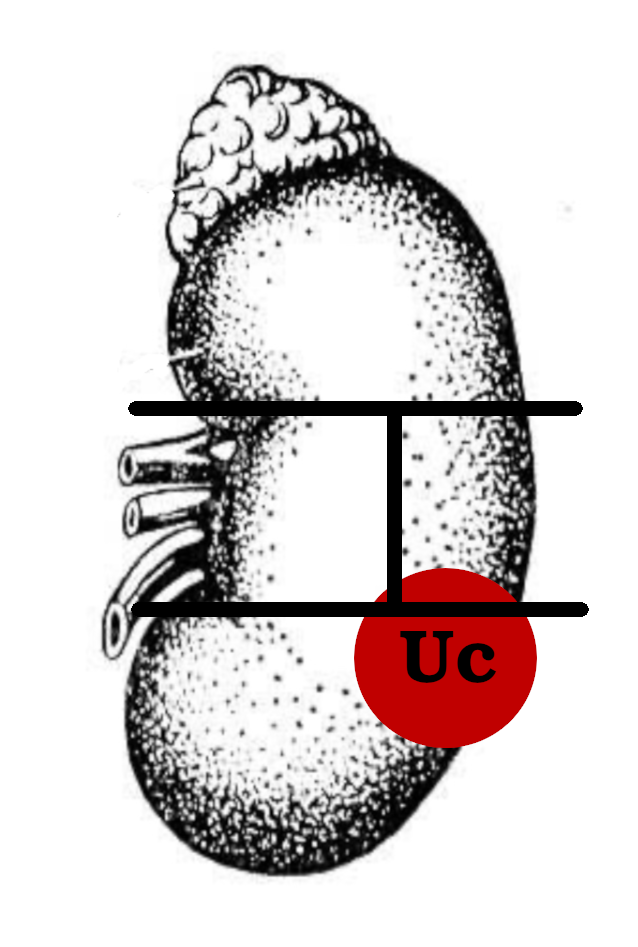
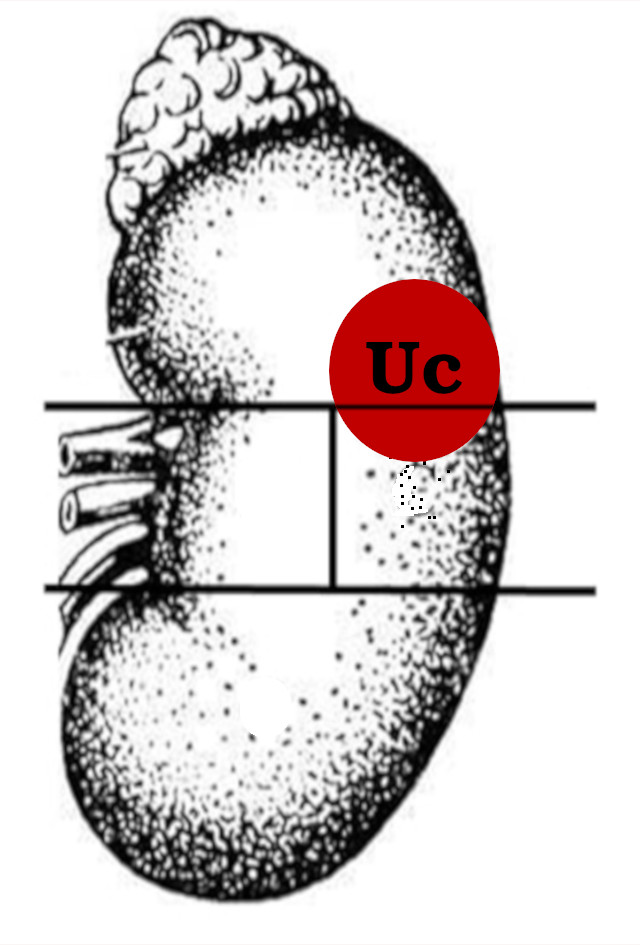
Fixed bugs

diff --git a/index.html b/index.html
@@ -1,4 +1,5 @@
 <!DOCTYPE html>
+
 <html lang="en">
   <head>
     <meta charset="utf-8" />
@@ -70,21 +71,23 @@
       <section class="section about-me" data-section="section1">
         <div class="container">
         <div class="top-header">
-        	<img src="assets/images/Header-Doctor-with-Paperwork.jpg" alt="doctor paperwork" />
+        	<img src="assets/images/Stakhovskii-doctor.png" alt="doctor paperwork" />
         </div>
           <div class="section-heading">
           
             <h2>Локалізація пухлини</h2>
             <div class="line-dec"></div>
-            <span>Як перший етап, на комп’ютерних знімках нирку розділяють на інтерполярний (середній) та полярні сегменти ((Upper) –
-               верхній та (Inferior) – нижній) лініями, що проведені перпендикулярно до вертикальної осі нирки по краях медіальної 
-              губи, де паренхіма нирки продовжується у нирковий жир синусів, судин чи порожнистої системи.
+            <span>
+              <img src="assets/images/UI-model.gif" alt="model" class="leftimg"/><img src="assets/images/NCUI-model.gif" alt="NCUI-model" class="rightimg"/>Як перший етап, на комп’ютерних знімках нирку розділяють на інтерполярний (середній) та полярні сегменти ((Upper) –
+                верхній та (Inferior) – нижній) лініями, що проведені перпендикулярно до вертикальної осі нирки по краях медіальної 
+               губи, де паренхіма нирки продовжується у нирковий жир синусів, судин чи порожнистої системи.
               <br>Далі проводимо перпендикуряну лінію, яка відповідає вертикальній осі нирки і проходить від верхньої до нижньої
                інтерполярної лінії. Таким чином середній сегмент розділяється ще на два сегменти ((Nearness) – близький до судинної 
                ніжки чи медіальний та (Collateral) – латеральний)
                <br>
                Якщо пухлина повністю знаходиться в одному із цих сегментів, при цьому жодна із роздільних ліній її не перетинає, тоді 
                їй присвоюється одна велика буква, що відповідає назві цього сегменту (наприклад: U, N, С, I).
+               <img src="assets/images/Un-Cn-Ic-model.gif" alt="Un-Cn-Ic-model" class="leftimg"/><img src="assets/images/CU-NC-NI-model.gif" alt="CU-NC-NI-model" class="rightimg"/>
                <br>
                Якщо пухлина знаходиться як в одному, так і в іншому сегменті, але розміщення її в одному з них складає менше 15% об’єму 
                пухлини, їй присвоюється одна велика буква, що відповідає назві більш ураженого сегменту (наприклад: U, N, С, I).
@@ -93,41 +96,32 @@
                пухлини, їй присвоюється велика та мала буква, де велика буква відповідає сегменту, в якому розміщена більша частина пухлини,
                а мала – менша частина (наприклад: Un, Ic, Cn).
                <br>
-               Якщо пухлина порівну знаходиться в обох сегментах, їй присвоюються обидві великі букви, що відповідають сегментам розміщення. 
+               Якщо пухлина порівну знаходиться в обох сегментах, їй присвоюються обидві великі букви, що відповідають сегментам розміщення.
                При цьому першою ставиться буква складнішого, з точки зору хірургії, сегменту (наприклад: NC, NI, CU).
+               <img src="assets/images/NCUI2-model.gif" alt="NCUI2-model" class="leftimg"/><img src="assets/images/Un0NC-model.gif" alt="Un0NC-model" class="rightimg"/> 
                <br>
                Якщо пухлина одночасно знаходиться в трьох сегментах та є переважання розміщення її в одному з них, їй присвоюються дві букви 
                відповідно першого та другого сегментів, в якому розміщення пухлини переважає (одна велика і одна мала (при ураженні другого 
                сегменту більше 15%, але менше 50% об’єму пухлини) чи дві великі (при однаковому об’ємі ураження обох сегментів) (наприклад:  Un, NC).
-              </span>
-              
-          </div>
-          <img src="assets/images/all-models.png" alt="all model" class="col-md-12">
-          <div class="right-image-post">
-            <div class="row">
- 
-              <div class="col-md-8">
-                <div class="left-text">
-                  <p>Автори розробили систему оцінки пухлинного ураження нирки (NCUI—nephrometry), що дає можливість визначити тактику оперативного лікування НКР.</p>
-                  <div class="white-button">
-                    <a href="assets/images/patent_sposib_nciukraine_nephrometriya.pdf" download target="_blank">Дізнатися більше</a>
-                  </div>
+               <p>Автори розробили систему оцінки пухлинного ураження нирки (NCUI—nephrometry), що дає можливість визначити тактику оперативного лікування НКР.</p>
+               <br>
+               <div class="white-button">
+                 <div class="center-text">
+                  <a href="assets/images/patent_sposib_nciukraine_nephrometriya.pdf" download target="_blank" style="margin-left: 410px;">Дізнатися більше</a>
                 </div>
               </div>
-              
-              
-            </div>
+            </span>
           </div>
           <div class="left-text">
             <div class="row">
               <div class="col-md-12">
                 <div class="center-text">
-                  <h4>Оберіть розміщення пухлини<br> </h3>
-        
+                  <h4>Оберіть розміщення пухлини</h3>
+                  <div class="line-dec"></div><br><br>
                 </div>
               </div>
-              
             </div>
+            <div class="line-dec"></div>
           </div>
           <div class="cc-selector"> 
             <input id="place1" type="radio" name="place" value="N"  />
@@ -136,8 +130,9 @@
             <label class="drinkcard-cc C" for="place2"></label>
             <input id="place3" type="radio" name="place" value="I"  />
             <label class="drinkcard-cc I" for="place3"></label>
-            <input id="place4" type="radio" name="place" value="U"  />              <label class="drinkcard-cc U" for="place4"></label><br>
-
+            <input id="place4" type="radio" name="place" value="U"  />              
+            <label class="drinkcard-cc U" for="place4"></label>
+            <br>
             <input id="place5" type="radio" name="place" value="NC"  />
             <label class="drinkcard-cc NC" for="place5"></label>
             <input id="place6" type="radio" name="place" value="NI"  />
@@ -146,30 +141,31 @@
             <label class="drinkcard-cc NU" for="place7"></label>
             <input id="place8" type="radio" name="place" value="CU"  />
             <label class="drinkcard-cc CU" for="place8"></label>
+            <br>
             <input id="place9" type="radio" name="place" value="CI"  />
-            <label class="drinkcard-cc CI" for="place9"></label><br>
-
+            <label class="drinkcard-cc CI" for="place9"></label>
             <input id="place10" type="radio" name="place" value="Ni"  />
             <label class="drinkcard-cc Ni" for="place10"></label>
             <input id="place11" type="radio" name="place" value="Nu"  />
             <label class="drinkcard-cc Nu" for="place11"></label>
             <input id="place12" type="radio" name="place" value="Nc"  />
             <label class="drinkcard-cc Nc" for="place12"></label>
-            <input id="place13" type="radio" name="place" value="Un"  />
-            <label class="drinkcard-cc Un" for="place13"></label>
-            <input id="place14" type="radio" name="place" value="Uc"  />
-            <label class="drinkcard-cc Uc" for="place14"></label><br>
-
-            <input id="place15" type="radio" name="place" value="In"  />
-            <label class="drinkcard-cc In" for="place15"></label>
-            <input id="place16" type="radio" name="place" value="Ic"  />
-            <label class="drinkcard-cc Ic" for="place16"></label>
+            <br>
+            <input id="place13" type="radio" name="place" value="In"  />
+            <label class="drinkcard-cc In" for="place13"></label>
+            <input id="place14" type="radio" name="place" value="Ic"  />
+            <label class="drinkcard-cc Ic" for="place14"></label>
+            <input id="place15" type="radio" name="place" value="Un"  />
+            <label class="drinkcard-cc Un" for="place15"></label>
+            <input id="place16" type="radio" name="place" value="Uc"  />
+            <label class="drinkcard-cc Uc" for="place16"></label>
+            <br>
             <input id="place17" type="radio" name="place" value="Cn"  />
             <label class="drinkcard-cc Cn" for="place17"></label>
             <input id="place18" type="radio" name="place" value="Cu"  />
             <label class="drinkcard-cc Cu" for="place18"></label>
             <input id="place19" type="radio" name="place" value="Ci"  />
-            <label class="drinkcard-cc Ci" for="place19"></label><br>
+            <label class="drinkcard-cc Ci" for="place19"></label>
 
           </div>
           
@@ -191,9 +187,10 @@
                  нирки є край самої пухлини.<br></span>
             <img src="assets/images/kidney-tumor.png" alt="kidney-tumor">
           </div>
-          <form>
-            <h5><br><b>Уведіть параметри нирки</b></h5>
-            <div class="row">
+          
+          <form class="form-inline justify-content-center">
+              <h1 class="display-5 py-2 text-truncate">Уведіть параметри нирки</h1><br>
+              <div class="row">
               <div class="col-xs-3">
                 <label>Довжина(мм)</label>
                 <input type="number" id="kidney-len" class="form-control">
@@ -207,7 +204,7 @@
                 <input type="number" id="kidney-thick" class="form-control">
               </div>
             </div>
-            <h5><b>Уведіть параметри пухлини</b></h5>
+            <h1 class="display-5 py-2 text-truncate">Уведіть параметри пухлини</h1><br>
             <div class="row">
               <div class="col-xs-3">
                 <label>Довжина(мм)</label>
@@ -223,10 +220,10 @@
                 <input type="number" id="tumor-thick" class="form-control">
               </div>
             </div>
-            <h5><b>Уведіть параметри пухлинного ураження нирки</b></h5>
+            <h1 class="display-5 py-2 text-truncate">Уведіть параметри пухлинного ураження</h1><br>
             <div class="row">
               <div class="col-xs-3">
-                <label>Ширина(мм)</label>
+                <label>Довжина(мм)</label>
                 <input type="number" id="kidtum-len" class="form-control">
               </div>
               <div class="col-xs-4">
@@ -238,7 +235,7 @@
                 <input type="number" id="kidtum-thick" class="form-control">
               </div>
             </div>
-            <br />
+            <br>
           </form>
         </div>
       </section>
@@ -256,7 +253,7 @@
                 <button onclick="Calc()" class="button">
                   Обчислити
                 </button>
-                <span class="larger"> 	&#160; 	&#160; 	&#160;<b>Результат: <span id="result" style ="font-size: xx-large; color: white;" ></span></b></span>
+                <span class="label"><br><b>Результат: <span id="result" style ="font-size: x-large; color: white; width:1000px;" ></span></b></span>
               </fieldset>
               <p>показання...</p>
             </div>

diff --git a/assets/super-awesome.css b/assets/super-awesome.css
@@ -1,10 +1,10 @@
+
 .cc-selector input{
     margin:0;padding:0;
     -webkit-appearance:none;
        -moz-appearance:none;
             appearance:none;
 }
-
 .cc-selector-2 input{
     position:absolute;
     z-index:999;
@@ -42,7 +42,7 @@
     background-size:contain;
     background-repeat:no-repeat;
     display:inline-block;
-    width:196px;height:200px;
+    width:200px;height:220px;
     -webkit-transition: all 100ms ease-in;
        -moz-transition: all 100ms ease-in;
             transition: all 100ms ease-in;
@@ -89,4 +89,16 @@ input[type=number]{
 }
 .percent {
 	font-size: 200%;
+}
+.rightimg  {
+    float: right;
+    width: 140px;
+    height: 190px;  
+    margin: 5px 0 7px 7px; 
+}
+img.leftimg {
+    width: 140px;
+    height: 190px;
+    margin: 5px 7px 7px 0px;
+    float: left;
 }
